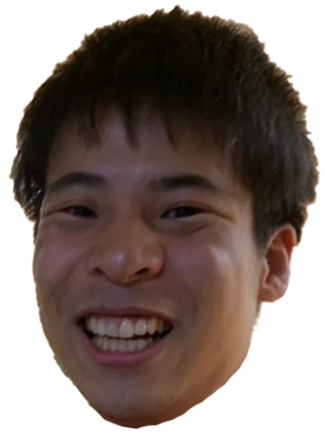
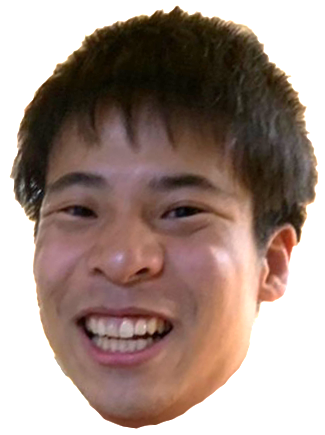
Slot指定に問題がある場合にコンソールへ警告を出す
Slotの重複や未設定があると、該当の力士は空きマスへ順に
流し込まれる。表示位置が静かにずれるだけで原因が分からない
ため、どの力士がどう衝突したかを出すようにした。

判定も Number.isFinite に変更（従来はNaNの扱いが暗黙だった）。

diff --git a/js/data_local.js b/js/data_local.js
@@ -1,7 +1,7 @@
 /**
  * data_local.js  ※自動生成ファイル - 直接編集しないこと
  *
- * 生成: 2026-08-31 06:57:09
+ * 生成: 2026-08-31 07:54:18
  * 元:   スプレッドシート 2PACX-1vT4MxPwJQWpSrarh8...
  *
  * 内容を更新するには、スプシを編集してから次を実行:
@@ -9,7 +9,7 @@
  */
 const LOCAL_CSV = {
   "CONFIG": "No.,カテゴリ,関連,ID (Key),概要,計算式 / ロジック,設定値,解説（値が大きくなると）\r\n1,SYSTEM,0-共通,SYSTEM_STAGE_WIDTH,ステージ全幅,ピクセル数 (px),1200,ゲーム画面（土俵を含む全体）の横幅。\r\n2,SYSTEM,0-共通,SYSTEM_CENTER_X,ステージ中心X座標,STAGE_WIDTH / 2 (px),600,画面の中央座標。配置の基準点。\r\n3,SYSTEM,0-共通,SYSTEM_START_OFFSET,初期配置オフセット,CENTER_X ± OFFSET,200,中心から左右にどれだけ離れて開始するか。\r\n4,SYSTEM,0-共通,GAME_RULES_RING_EDGE_RIGHT,土俵右端座標,右端X座標土俵(px),1090,土俵が右に広がる。\r\n5,SYSTEM,0-共通,GAME_RULES_RING_EDGE_LEFT,土俵左端座標,左端のX座標(px),110,土俵が左に広がる。\r\n6,SYSTEM,0-共通,GAME_RULES_EDGE_ZONE_WIDTH,土俵際の判定エリア,端から{設定値}Pxが土俵際,120,土俵際（逆転バフ発動エリア）が広くなる。\r\n7,SYSTEM,0-共通,GAME_RULES_HIT_DIST,接触判定距離,2人の距離(d)が{設定値}Px以下なら「接触」判定。この距離内でアクションすると**「組み（Grapple）」**に移行,100,遠くからでも接触判定が出る。吸い込みが強くなる。\r\n8,SYSTEM,0-共通,GAME_RULES_THROW_RANGE,投げ技射程,距離 < RANGE で掴み投げ発動(px),120,\"掴み投げが遠くから届くようになる。\n接触判定距離との差分→掴まれずに投げを発動できる距離\"\r\n9,SYSTEM,0-共通,DAMAGE_RINGOUT_PENALTY,即死ダメージ,固定ダメージ,999,土俵から足が出た瞬間に与えられるペナルティダメージ（999）。\r\n10,SYSTEM,0-共通,PHYSICS_SCALE_1,小兵サイズ倍率,基準値(130px) * SCALE,0.75,最も小さい体格。当たり判定も小さい。\r\n11,SYSTEM,0-共通,PHYSICS_SCALE_2,中兵サイズ倍率,基準値(130px) * SCALE,0.875,やや小さい体格。\r\n12,SYSTEM,0-共通,PHYSICS_SCALE_3,標準サイズ倍率,基準値(130px) * SCALE,1,基準となる体格。\r\n13,SYSTEM,0-共通,PHYSICS_SCALE_4,大型サイズ倍率,基準値(130px) * SCALE,1.225,やや大きい体格。\r\n14,SYSTEM,0-共通,PHYSICS_SCALE_5,巨漢サイズ倍率,基準値(130px) * SCALE,1.45,最も大きい体格。当たり判定も大きい。\r\n15,ACTION,0-共通,ACTION_SPEED_BASE,基本移動速度,BASE * ハヤサ補正(px/fl),8,全員の移動スピードが速くなる。\r\n16,ACTION,0-共通,ACTION_MOVE_BACK_RATE,後退速度倍率,SPEED * RATE,0.7,後ろに下がる速度が速くなる（逃げやすい）。\r\n17,ACTION,0-共通,ACTION_SPEED_CHARGING_MOD,チャージ中速度,SPEED * MOD(px/fl),0.7,チャージ中（Sキー）でも速く動ける（1.0で減速なし）。\r\n18,ACTION,0-共通,ACTION_CHARGE_BACK_RATE,チャージ後退倍率,SPEED * RATE,0.5,チャージしながら下がる速度が速くなる。\r\n19,ACTION,0-共通,ACTION_REBOUND_VELOCITY,弾かれ初速,衝突時 VELOCITY で吹っ飛ぶ(px/fl),15,かち合い（正面衝突）時\r\n20,ACTION,0-共通,ACTION_COOLDOWN_TIME,張り合い硬直,COOLDOWN 動けない (F),30,ぶつかった後の硬直時間が長くなる。\r\n21,ACTION,0-共通,ACTION_INASHI_DURATION_BASE,いなし受付時間基本値,BASE + ギジュツ補正 (F),1,いなし（パリィ）の受付時間が長くなる。\r\n22,ACTION,0-共通,ACTION_INASHI_TECH_MOD,いなし技術補正,ギジュツ差 * MOD (F),3,\"ギジュツが高いキャラのいなし時間がさらに伸びる。\n「ギジュツ（Tech）」ステータス1ポイントにつき、受付時間が何フレーム伸びるかです。\"\r\n23,ACTION,0-共通,ACTION_STUMBLE_DURATION,いなしの失敗隙,フレーム数 (F),30,いなし失敗時の硬直時間。（※対人戦のP1 vs P2では、今のところ使われていません。対人戦では STAMINA_MISS_PENALTY でスタミナが減る仕様になっています）\r\n24,ACTION,0-共通,ACTION_STUN_TIME_PUSH,スタン(押し),フレーム数 (F),30,ぶちかまし被弾時の気絶時間。\r\n25,ACTION,0-共通,ACTION_STUN_TIME_THROW,スタン(投げ),フレーム数 (F),50,投げ被弾時の気絶時間。\r\n26,ACTION,0-共通,ACTION_SWAP_DIST_NORMAL,いなし移動距離,入れ替え後 ± DIST(px),80,いなし成功時に相手とどのくらい距離を離すか。\r\n27,ACTION,0-共通,STATUS_SP_PUSH_BASE,ぶちかまし距離,BASE + (Power補正),50,ぶちかましで相手を最低でもこの距離は吹っ飛ばす。\r\n28,ACTION,0-共通,ACTION_SWAP_DIST_SUPER,投げ移動距離,投げ後 ± DIST(px),150,掴み投げ成功時に相手を背後にどの程度飛ばすか。\r\n29,ACTION,0-共通,CHARGE_BASE_GAIN,ゲージ増加量,GAIN * ギジュツ補正,1,下キー（チャージ）を押している間、この値が毎フレーム加算されます。\r\n30,ACTION,0-共通,CHARGE_THRESHOLDS_SUPER_PUSH,ぶちかまし閾値,ゲージ >= THRESHOLD で発動,50,ゲージがこの値以上の時に、接触して前進すると「ぶちかまし」が発動します。発動後、この値分だけゲージが消費されます。\r\n31,ACTION,0-共通,CHARGE_THRESHOLDS_SUPER_SWAP,投げ閾値,ゲージ >= THRESHOLD で発動,100,ゲージがこの値以上の時に、接触して前進すると「後ろ投げ」が発動します。発動後、この値分だけゲージが消費されます。\r\n32,ACTION,0-共通,CLASH_POWER_RATE,通常押し威力,チカラ×rate,0.5,通常の張り合いでスタミナが削れる量。\r\n33,ACTION,0-共通,PHYSICS_FRICTION,速度 *= FRICTION,張り合い時の減速,0.75,張り合い時に小さいほどツルツル滑る。\r\n34,ACTION,0-共通,DAMAGE_BASE_THROW,投げ威力,固定ダメージ,5,掴み投げ（必殺）でスタミナが削れるベース値。\r\n35,ACTION,1-チカラ,PHYSICS_PUSH_POWER_BASE,押す力の基本値,移動量 = (Power * 0.5) + PUSH_POWER_BASE,3.5,押し合いで相手を飛ばす物理的な移動量。\r\n36,ACTION,0-共通,DAMAGE_BASE_THRUST,ぶちかまし威力,固定ダメージ,5,ぶちかまし（必殺）でスタミナが削れる量。\r\n37,STAMINA,0-共通,STAMINA_INIT,スタミナ初期値,開始時のタイリョク基準値,100,試合が長引くようになる。\r\n38,ACTION,0-共通,STATUS_GRAPPLE_SPD_RATE,組み速度倍率,全員共通の速度 × STATUS_GRAPPLE_SPD_RATE,0.5,組み状態（寄り）での移動速度が速くなる。\r\n39,STAMINA,0-共通,STAMINA_MAX_DECAY,自然減少速度,毎フレーム MAX - DECAY,0.1,何もしなくてもHPが減る速度が上がる。\r\n40,STAMINA,0-共通,STAMINA_CHARGE_COST,チャージコスト,チャージ時 - COST,0.1,\"立ち合い時と寄り時両方のチャージ時の一時体力消費量\n※立ち合い時はチャージ時の半分\"\r\n41,STAMINA,0-共通,STAMINA_RECOVERY_DELAY,,,60,回復開始までの待機フレーム数（60=1秒）。300なら5秒待ちます。\r\n43,STAMINA,0-共通,STAMINA_SWAP_COST_NORMAL,いなし成功コスト,入れ替え時 - COST,0,いなし成功時の自傷ダメージ\r\n44,STAMINA,0-共通,STAMINA_MISS_PENALTY,空振りペナルティ,いなし失敗時 - PENALTY,10,いなし失敗時の自傷ダメージ\r\n45,STAMINA,0-共通,STAMINA_RECOVER_IDLE,棒立ち回復量,毎フレーム + RECOVER,0.3,何もしない時の回復が早くなる。\r\n46,STAMINA,0-共通,STAMINA_RECOVER_MOVE,移動中回復量,毎フレーム + RECOVER,0.1,移動しながらでもスタミナが回復しやすくなる。\r\n47,STAMINA,0-共通,STAMINA_PUSH_COST,寄るコスト,押し合い時 - COST,0.2,寄りで押すときにかかるコスト\r\n48,STAMINA,0-共通,STAMINA_MOVE_COST,寄られるコスト,移動時 - COST,0.25,寄りで押されてるときにかかるコスト\r\n49,STAMINA,0-共通,STAMINA_SUPER_PUSH_COST,SP押しコスト,ぶちかまし時 - COST,10,ぶちかまし使用時の体力消費が増える。\r\n50,STAMINA,0-共通,STAMINA_SUPER_SWAP_COST,SP投げコスト,掴み投げ時 - COST,15,掴み投げ使用時の体力消費が増える。\r\n51,STATUS,4-タイリョク,STATUS_HP_PER_STAMINA,体力換算レート,100 + (Stamina差 * RATE),10,タイリョクが高いキャラのHP最大値が増える。\r\n52,STAMINA,1-チカラ,STATUS_GRAPPLE_COST_RATE,組みスタミナ,COST * RATE,0.2,組み状態のタイリョク減少値\r\n53,STATUS,3-ハヤサ,STATUS_SPD_MOVE_RATE,俊敏移動補正,SPEED * (1 + Spd差*RATE),0.15,ハヤサが高いキャラの移動速度が速くなる。\r\n54,STATUS,3-ハヤサ,STATUS_SPD_BRAKE_RATE,俊敏減速補正,DECAY - (Spd差 * RATE),0.05,ハヤサが高いキャラがスタンからすぐ動ける。\r\n55,STATUS,2-ギジュツ,STATUS_TECH_CHARGE_RATE,チャージ補正,GAIN * (1 + Tech差*RATE),0.18,ギジュツが高いキャラのチャージ速度が速くなる。\r\n56,STATUS,6-ギャクテン,STATUS_REV_BUFF_RATE,逆転バフ率,Reversal差 * RATE,1,ギャクテンが高いキャラが土俵際で強くなる度合い。\r\n57,STATUS,5-キモチ,STATUS_SPIRIT_BUFF_RATE,根性バフ率,(1-HP率) * Spirit差 * RATE,1,キモチが高いキャラがピンチ時に強くなる度合い。\r\n58,UI,0-共通,UI_DMG_DURATION,ダメージ表示時間,ミリ秒 (ms),150,ダメージ数値が画面に表示され続ける時間。\r\n59,UI,0-共通,UI_GYOJI_INTERVAL_MAX,行司間隔(最大),ミリ秒 (ms),2500,「のこった」の最大間隔。\r\n60,UI,0-共通,UI_GYOJI_INTERVAL_MIN,行司間隔(最小),ミリ秒 (ms),800,「のこった」の最小間隔。\r\n61,STATUS,1-チカラ,STATUS_SP_PUSH_RATE,ぶちかまし係数,吹き飛ばし距離 = 基礎値150 + (パワー × SP_PUSH_RATE),20,\"パワー1につき、吹き飛ばす距離が何ピクセル伸びるか。\n例: パワー10 × レート20 = 基礎値に加えて200ドット余計に飛ばす\"\r\n62,STATUS,1-チカラ,STATUS_SP_SELF_BACK_RATE,ぶちかまし反動,吹っ飛ばし距離 * RATE,0.2,\"ぶちかまし後自分にかかる反動\n例: 相手を300飛ばした × レート0.2 = 自分も反動で60下がる。\"\r\n63,STATUS,1-チカラ,STATUS_PUSH_VS_CHARGE,チャージ相手の「押しの効きにくさ（抵抗値）」,移動距離 = 本来の移動距離 ÷ STATUS_PUSH_VS_CHARGE,1.5,\"1.5 に設定した場合 → 移動距離が 1/1.5（約0.6倍）に減る。\n2.0 に設定した場合 → 移動距離が半減する（かなり重くなる）。\"\r\n64,STATUS,1-チカラ,STATUS_PWR_DMG_RATE,パワーダメ倍率,1.0 + (Power差 * RATE),0.2,チカラ（Power）が強い力士ほど、1押しあたりのダメージが重くなる\r\n65,STATUS,1-チカラ,STATUS_PUSH_DIST_CONVERT,押し距離変換,押し力 * CONVERT,0.5,物理的な「力」を、最終的に「画面上で何ドット動かすか」に変換する仕上げの倍率\r\n66,STATUS,1-チカラ,STATUS_PUSH_BASE_RATE,押し基礎値,Power * RATE,0.8,力士の能力値（チカラ）の差を、物理的な「力」に変換する\r\n67,AI,0-共通,AI_LV1_ACCURACY,Lv1 正確性,確率 0.0〜1.0,0.2,高いほど、こちらの行動に対して完璧なカウンター（例：押しには突き、突きにはいなし）を出してきます。\r\n68,AI,0-共通,AI_LV2_ACCURACY,Lv2 正確性,確率 0.0〜1.0,0.3,高いほど、こちらの行動に対して完璧なカウンター（例：押しには突き、突きにはいなし）を出してきます。\r\n69,AI,0-共通,AI_LV3_ACCURACY,Lv3 正確性,確率 0.0〜1.0,0.4,高いほど、こちらの行動に対して完璧なカウンター（例：押しには突き、突きにはいなし）を出してきます。\r\n70,AI,0-共通,AI_LV2_INASHIRATE,Lv2 いなし頻度,確率係数,0.1,高いほど、ひらりと体を入れ替える「いなし」を多用します。\r\n71,AI,0-共通,AI_LV4_ACCURACY,Lv4 正確性,確率 0.0〜1.0,0.6,高いほど、こちらの行動に対して完璧なカウンター（例：押しには突き、突きにはいなし）を出してきます。\r\n72,AI,0-共通,AI_LV3_INASHIRATE,Lv3 いなし頻度,確率係数,0.2,高いほど、ひらりと体を入れ替える「いなし」を多用します。\r\n73,AI,0-共通,AI_LV5_ACCURACY,Lv5 正確性,確率 0.0〜1.0,0.7,高いほど、こちらの行動に対して完璧なカウンター（例：押しには突き、突きにはいなし）を出してきます。\r\n74,AI,0-共通,AI_LV4_INASHIRATE,Lv4 いなし頻度,確率係数,0.4,高いほど、ひらりと体を入れ替える「いなし」を多用します。\r\n75,AI,0-共通,AI_LV6_ACCURACY,Lv6 正確性,確率 0.0〜1.0,0.85,高いほど、こちらの行動に対して完璧なカウンター（例：押しには突き、突きにはいなし）を出してきます。\r\n76,AI,0-共通,AI_LV5_INASHIRATE,Lv5 いなし頻度,確率係数,0.6,高いほど、ひらりと体を入れ替える「いなし」を多用します。\r\n77,AI,0-共通,AI_LV7_ACCURACY,Lv7 正確性,確率 0.0〜1.0,1,高いほど、こちらの行動に対して完璧なカウンター（例：押しには突き、突きにはいなし）を出してきます。\r\n78,AI,0-共通,AI_LV6_INASHIRATE,Lv6 いなし頻度,確率係数,0.9,高いほど、ひらりと体を入れ替える「いなし」を多用します。\r\n79,AI,0-共通,AI_LV1_INASHIRATE,Lv1 いなし頻度,確率係数,0.05,高いほど、ひらりと体を入れ替える「いなし」を多用します。\r\n80,AI,0-共通,AI_LV7_INASHIRATE,Lv7 いなし頻度,確率係数,1.5,高いほど、ひらりと体を入れ替える「いなし」を多用します。\r\n81,AI,0-共通,AI_LV1_MISTAKE,Lv1 ミス率,確率 0.0〜1.0,0.5,高いほど、棒立ちしたり、変な方向に動いたりします。\r\n82,AI,0-共通,AI_LV2_MISTAKE,Lv2 ミス率,確率 0.0〜1.0,0.4,高いほど、棒立ちしたり、変な方向に動いたりします。\r\n83,AI,0-共通,AI_LV3_MISTAKE,Lv3 ミス率,確率 0.0〜1.0,0.3,高いほど、棒立ちしたり、変な方向に動いたりします。\r\n84,AI,0-共通,AI_LV4_MISTAKE,Lv4 ミス率,確率 0.0〜1.0,0.2,高いほど、棒立ちしたり、変な方向に動いたりします。\r\n85,AI,0-共通,AI_LV5_MISTAKE,Lv5 ミス率,確率 0.0〜1.0,0.1,高いほど、棒立ちしたり、変な方向に動いたりします。\r\n86,AI,0-共通,AI_LV6_MISTAKE,Lv6 ミス率,確率 0.0〜1.0,0.05,高いほど、棒立ちしたり、変な方向に動いたりします。\r\n87,AI,0-共通,AI_LV7_MISTAKE,Lv7 ミス率,確率 0.0〜1.0,0,高いほど、棒立ちしたり、変な方向に動いたりします。\r\n88,AI,0-共通,AI_LV1_REACTION,Lv1 反応速度,フレーム数,50,「行動開始までのウェイト時間」 (フレーム数)\r\n89,AI,0-共通,AI_LV2_REACTION,Lv2 反応速度,フレーム数 (小さいほど速い),40,「行動開始までのウェイト時間」 (フレーム数)\r\n90,AI,0-共通,AI_LV3_REACTION,Lv3 反応速度,フレーム数 (小さいほど速い),30,「行動開始までのウェイト時間」 (フレーム数)\r\n91,AI,0-共通,AI_LV4_REACTION,Lv4 反応速度,フレーム数 (小さいほど速い),20,「行動開始までのウェイト時間」 (フレーム数)\r\n92,AI,0-共通,AI_LV5_REACTION,Lv5 反応速度,フレーム数,15,「行動開始までのウェイト時間」 (フレーム数)\r\n93,AI,0-共通,AI_LV6_REACTION,Lv6 反応速度,フレーム数,8,「行動開始までのウェイト時間」 (フレーム数)\r\n94,AI,0-共通,AI_LV7_REACTION,Lv7 反応速度,フレーム数,3,「行動開始までのウェイト時間」 (フレーム数)\r\n95,DEBUG,0-共通,DEBUG,デバッグモード,1=ON,0,\"0ロジック: 1 にすると、当たり判定のボックスや、現在のステータス数値などが画面上に可視化されます（※実装コードが ui.js や game.js の描画部分に含まれている場合のみ有効）。\n現状: コード内には明示的な実装が見当たりませんが、将来的に「当たり判定がおかしい？」となった時に使うための予約変数として置いておくのが良いです。\"\r\n96,ACTION,1-チカラ,ACTION_THROW_DIST_RATE,,,10,[新規] 投げ距離へのチカラ倍率\r\n97,ACTION,1-チカラ,DAMAGE_INASHI_RATE,,,2,[新規] いなし相手へのダメージ倍率（通常1。0.5にすれば半減）\r\n98,ACTION,1-チカラ,DAMAGE_THRUST_PWR_RATE,,,2,ダメージへのチカラ倍率（1ならそのまま加算）\r\n99,ACTION,1-チカラ,DAMAGE_THROW_PWR_RATE,,,3,ダメージへのチカラ倍率（2ならチカラ×2を加算）",
-  "CHARS": "ID,最終更新日,名前,画像ファイル,音声ファイル,体格,チカラ,ギジュツ,ハヤサ,タイリョク,キモチ,ギャクテン,どすこいパワー,タイプ,思考,Slot,カテゴリ,身長,身長スコア,体重,体重スコア,コスト\r\n0,2026/08/31,日野錦(幼少期),hino1.png,hino.mp3,1,3,2,7,5,5,5,40,スピード,変則,0,ドリーム,,1,,1,2\r\n1,2026/08/31,日野錦(高校生),hino2.png,hino.mp3,2,6,4,9,7,7,5,62,スピード,素直,1,ドリーム,,3,,2,3\r\n2,2026/08/31,日野錦(大学生),hino3.png,hino.mp3,3,7,4,7,5,8,7,61,パワー,力押し,2,ドリーム,,3,,3,3\r\n3,2026/08/31,日野錦(新郎),hino4.png,hino.mp3,2,6,4,6,4,10,10,58,バランス,変則,3,ドリーム,,3,,2,4\r\n4,2026/08/31,北居の星(幼少期),kitai1.png,,1,1,1,4,3,5,3,22,スピード,素直,4,ドリーム,,1,,1,1\r\n5,2026/08/31,北居の星(高校生),kitai2.png,,4,10,4,8,10,10,6,80,パワー,力押し,5,ドリーム,,4,,4,5\r\n6,2026/08/31,北居の星(留学),kitai3.png,,3,8,2,8,8,10,5,65,パワー,素直,6,ドリーム,,3,,3,4\r\n7,2026/08/31,北居の星(新婦),kitai4.png,,3,8,3,7,8,10,5,66,パワー,力押し,7,ドリーム,,3,,3,4",
+  "CHARS": "ID,最終更新日,名前,画像ファイル,音声ファイル,体格,チカラ,ギジュツ,ハヤサ,タイリョク,キモチ,ギャクテン,どすこいパワー,タイプ,思考,Slot,カテゴリ,衣装,身長,身長スコア,体重,体重スコア,コスト\r\n0,2026/08/31,日野錦(幼少期),hino1.png,hino.mp3,1,3,2,7,5,5,5,40,スピード,変則,0,ドリーム,まわし,,1,,1,1\r\n1,2026/08/31,日野錦(高校生),hino2.png,hino.mp3,2,6,4,9,7,7,5,62,スピード,素直,1,ドリーム,まわし,,2,,2,3\r\n2,2026/08/31,日野錦(大学生),hino3.png,hino.mp3,3,7,4,7,5,8,7,61,パワー,力押し,2,ドリーム,まわし,,3,,3,3\r\n3,2026/08/31,日野錦(新郎),hino4.png,hino.mp3,4,6,4,6,4,10,10,58,バランス,変則,3,ドリーム,まわし,,4,,4,2\r\n4,2026/08/31,北居の星(幼少期),kitai1.png,kitai.mp3,1,1,1,4,3,5,3,22,スピード,素直,4,ドリーム,ドレス,,1,,1,0\r\n5,2026/08/31,北居の星(高校生),kitai2.png,kitai.mp3,2,10,4,8,10,10,6,80,パワー,力押し,5,ドリーム,ドレス,,2,,2,6\r\n6,2026/08/31,北居の星(留学),kitai3.png,kitai.mp3,3,8,2,8,8,10,5,65,パワー,素直,6,ドリーム,ドレス,,3,,3,4\r\n7,2026/08/31,北居の星(新婦),kitai4.png,kitai.mp3,4,8,3,7,8,10,5,66,パワー,力押し,7,ドリーム,ドレス,,4,,4,4\r\n8,2025/06/01,大の里,onosato.png,onosato.mp3,5,9,4,6,7,7,7,68,パワー,力押し,0,現役,192,5,184,5,4,\r\n9,2025/06/01,安青錦,aonishiki.png,aonishiki.mp3,3,6,8,7,7,6,7,68,テクニック,素直,1,現役,182,3,141,2,4,\r\n10,2025/06/01,高安,takayasu.png,takayasu.mp3,4,7,6,7,4,1,6,58,パワー,力押し,7,現役,188,4,173,3,2,\r\n11,,熱海富士,,,,7,4,5,7,5,5,57,パワー,力押し,,,187,3,197,5,2,\r\n12,2025/06/01,字良,ura.png,ura.mp3,2,3,9,5,3,6,9,54,テクニック,技狙い,9,現役,176,2,138,2,2,\r\n13,,炎鵬,,,1,1,9,7,1,8,7,48,テクニック,,,,167,1,107,1,1,\r\n14,2025/06/01,白熊,shirokuma.png,shirokuma.mp3,3,3,3,3,3,3,3,30,バランス,素直,11,現役,185,3,155,3,0,\r\n15,2025/06/01,白鵬,hakuho.png,hakuho.mp3,5,9,9,9,9,9,9,90,バランス,変則,15,レジェンド,192,5,155,3,7,\r\n16,2025/06/01,稀勢の里,kisenosato.png,kisenosato.mp3,5,9,8,6,7,3,10,76,パワー,変則,12,レジェンド,188,4,177,4,5,\r\n17,,貴乃花,,,,,,,,,,,,,,,,,,,,\r\n18,2026/01/01,義野口（友人）,noguchi.png,noguchi.mp3,4,10,6,1,1,1,2,50,パワー,力押し,16,ドリーム,192,5,184,5,2,\r\n19,2026/01/01,大高の里（友人）,otaka.png,otaka.mp3,3,2,8,4,8,8,1,50,テクニック,技狙い,17,ドリーム,175,2,140,2,2,",
   "BGM": "ID,ファイル名,曲名,アルバムID\r\n0,bgm01.mp3,5年前の未来,hitorizumou\r\n1,bgm02.mp3,I’m not just your star,hitorizumou\r\n2,bgm03.mp3,TU〜YU,sotsugyousiki\r\n3,bgm04.mp3,くっくっくうちゃん,hitorizumou\r\n4,bgm05.mp3,どうしようもないクリぼっちな僕,sotsugyousiki\r\n5,bgm06.mp3,ともへ,hitorizumou\r\n6,bgm07.mp3,君と僕と,sengen\r\n7,bgm08.mp3,宣言,sengen\r\n8,bgm09.mp3,前髪の行方,sengen\r\n9,bgm10.mp3,恥ずかしがって何もしない事が1番恥ずかしい,hitorizumou\r\n10,opening.mp3,にじうなな(Theme Song 1),Original\r\n11,charaselect.mp3,土俵に届け！キモチ(Theme Song 2),Original",
   "ALBUMS": "ID,アルバム名,ジャケット画像ファイル名,カテゴリ,カテゴリID\r\nhitorizumou,ひとりずもう,hitorizumou.jpg,ヒノれでぃお,1\r\nhinoiri,日の入,hinoiri.jpg,ヒノれでぃお,1\r\nhinode,日の出,hinode.jpg,ヒノれでぃお,1\r\nnokorifuku,残り福,nokorifuku.jpg,ヒノれでぃお,1\r\nsotsugyousiki,卒業式,sotsugyousiki.jpg,ヒノれでぃお,1\r\nsengen,宣言,sengen.jpg,ヒノれでぃお,1\r\nOriginal,Original,original.png,Original,2"
 };

diff --git a/js/config.js b/js/config.js
@@ -295,10 +295,31 @@ function charTypeAssets(charData) {
 function buildCharGridSlots() {
     const gridSlots = new Array(20).fill(null);
     const unplaced = [];
+    const conflicts = [];   // Slotが重複していて指定位置に置けなかった力士
+    const noSlot = [];      // Slotが未設定の力士
+
     RIKISHI_DATA.forEach(d => {
-            if (d.slot !== null && d.slot >= 0 && d.slot < 20 && gridSlots[d.slot] === null) gridSlots[d.slot] = d;
-            else unplaced.push(d);
+            const valid = Number.isFinite(d.slot) && d.slot >= 0 && d.slot < 20;
+            if (valid && gridSlots[d.slot] === null) {
+                gridSlots[d.slot] = d;
+                return;
+            }
+            if (valid) conflicts.push(`${d.name}(Slot${d.slot}は${gridSlots[d.slot].name}が使用中)`);
+            else noSlot.push(d.name);
+            unplaced.push(d);
         });
+
+    // 指定通りに置けなかった力士は空きマスへ順に流し込まれる。
+    // 静かに位置がずれると気づきにくいため、原因をコンソールへ出す。
+    if (conflicts.length || noSlot.length) {
+        console.warn(
+            'スプレッドシートのSlot指定に問題があります。空いているマスへ自動配置しました。\n'
+            + (conflicts.length ? `  重複: ${conflicts.join(' / ')}\n` : '')
+            + (noSlot.length ? `  未設定: ${noSlot.join(' / ')}\n` : '')
+            + '  Charactersシートの Slot 列（0〜19で重複なし）を見直してください。'
+        );
+    }
+
     let idx = 0;
     for (let i = 0; i < 20; i++) {
         if (gridSlots[i] === null && idx < unplaced.length) gridSlots[i] = unplaced[idx++];
